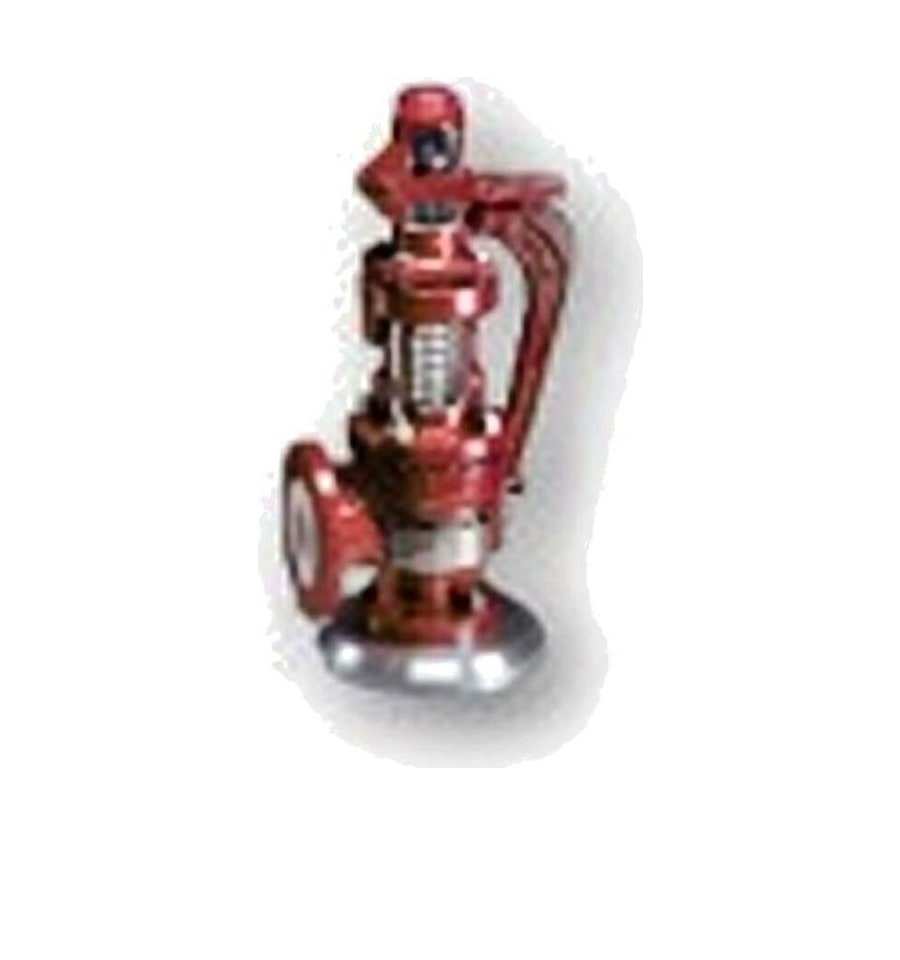
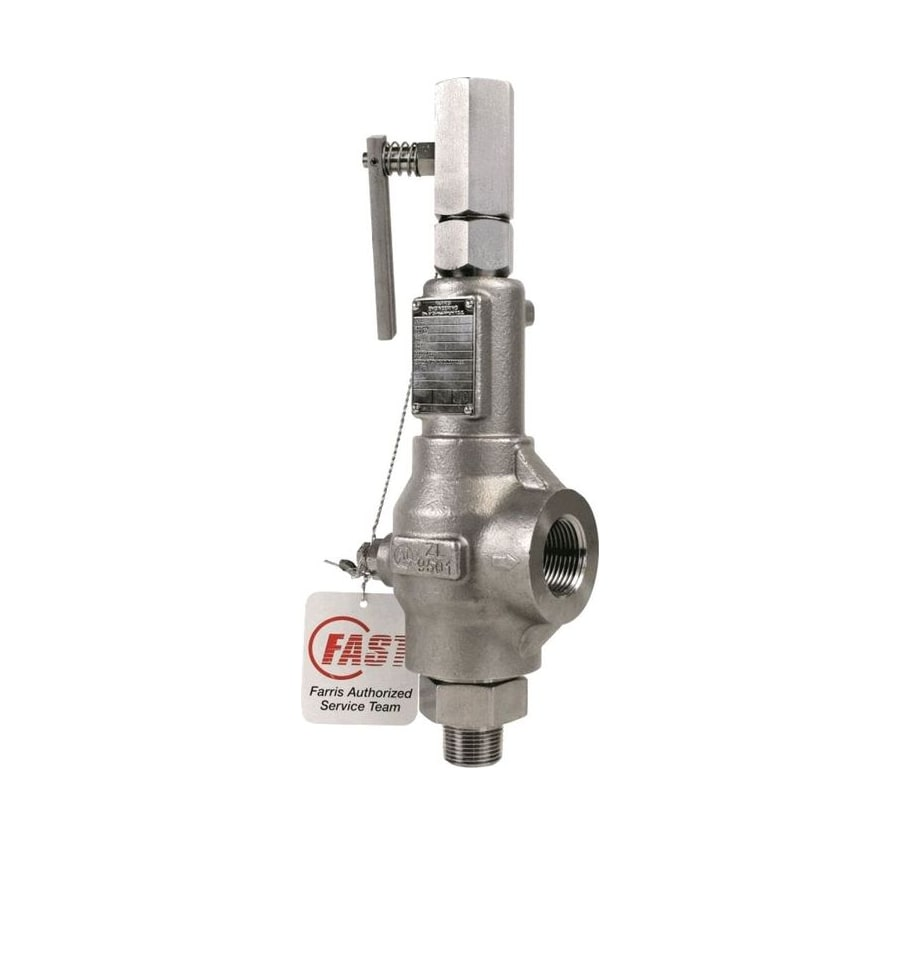
Replace low-quality Farris spring-operated valve image
The spring-operated-angle tile was a soft, low-res cross-section render
with a blotchy drop shadow. Swap in a clean official Farris product photo
(2400 Series direct spring-loaded relief valve, from the Farris-Valves
data set) composited onto the existing ACTS branded card template, and
regenerate its normalized homepage card tile. Update the flip-card detail
to accurately describe the 2400 Series.

Changed region(s): [[0.28, 0.0625, 0.7156, 0.8125]]

diff --git a/lib/data.ts b/lib/data.ts
@@ -292,14 +292,14 @@ export const brands: Brand[] = [
         caption: "Spring-operated safety relief valve",
         category: "Direct & Spring-Operated",
         detail: {
-          tag: "SERIES 2850",
+          tag: "SERIES 2400",
           description:
-            "A spring-loaded relief valve shown at an angle, highlighting the flanged inlet and side-mounted lifting lever.",
+            "A direct spring-loaded relief valve that reaches full lift at set pressure, with external blowdown adjustment and a manual lifting lever for in-service testing.",
           specs: [
-            "Flanged inlet connection",
-            "Side-mounted lifting lever",
-            "Compact body profile",
-            "Air, steam, vapor & liquid",
+            "ASME Section VIII certified",
+            "Direct spring-loaded — full lift at set",
+            "Soft seat design",
+            "External blowdown control",
           ],
         },
       },
